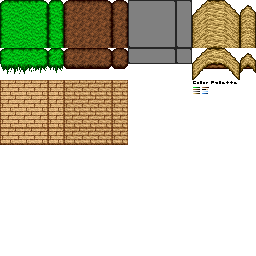
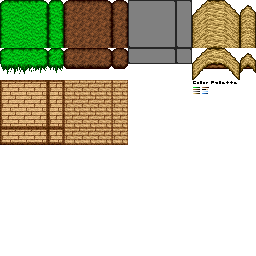
Interior Rendering Tests II
Increased contrast on indoor textures and some thing texture, and added
some new indoor things.

Added Things:
	StairsIndoor - a version of stairs that should be attached to a wall
	StairsIndoorBottom - aesthetic piece to aid transition between
adjacent indoor stairs (non-blocking, basically non-interactable)

Changed region(s): [[0.0, 0.3125, 0.25, 0.5938]]

diff --git a/src/actions/Step.java b/src/actions/Step.java
@@ -101,9 +101,9 @@ public class Step implements Action {
 				int[] pos = agent.getPos();
 				//Ascend ramp
 				if ((world.hasThing(pos[0] - 1, pos[1], pos[2]) && world.getThingAt(pos[0] - 1, pos[1], pos[2]).isRamp()
-						&& world.getThingAt(pos[0] - 1, pos[1], pos[2]).getDir() == right)
+						&& world.getThingAt(pos[0] - 1, pos[1], pos[2]).getDir() == left)
 						|| (world.hasThing(pos[0], pos[1], pos[2] - 1) && world.getThingAt(pos[0], pos[1], pos[2] - 1).isRamp()
-								&& world.getThingAt(pos[0], pos[1], pos[2] - 1).getDir() == right))
+								&& world.getThingAt(pos[0], pos[1], pos[2] - 1).getDir() == left))
 				{
 					ArrayList<String> tempArgs = new ArrayList<String>();
 					tempArgs.addAll(args);
@@ -112,9 +112,9 @@ public class Step implements Action {
 				}
 				//Descend ramp
 				else if ((world.hasThing(pos[0] - 1, pos[1], pos[2] - 1) && world.getThingAt(pos[0] - 1, pos[1], pos[2] - 1).isRamp()
-						&& world.getThingAt(pos[0] - 1, pos[1], pos[2] - 1).getDir() == left)
+						&& world.getThingAt(pos[0] - 1, pos[1], pos[2] - 1).getDir() == right)
 						|| (world.hasThing(pos[0], pos[1], pos[2] - 1) && world.getThingAt(pos[0], pos[1], pos[2] - 1).isRamp()
-								&& world.getThingAt(pos[0], pos[1], pos[2] - 1).getDir() == left))
+								&& world.getThingAt(pos[0], pos[1], pos[2] - 1).getDir() == right))
 				{
 					ArrayList<String> tempArgs = new ArrayList<String>();
 					tempArgs.addAll(args);
@@ -145,9 +145,9 @@ public class Step implements Action {
 				int[] pos = agent.getPos();
 				//Ascend ramp
 				if ((world.hasThing(pos[0] + 1, pos[1], pos[2]) && world.getThingAt(pos[0] + 1, pos[1], pos[2]).isRamp()
-						&& world.getThingAt(pos[0] + 1, pos[1], pos[2]).getDir() == left)
+						&& world.getThingAt(pos[0] + 1, pos[1], pos[2]).getDir() == right)
 						|| (world.hasThing(pos[0], pos[1], pos[2] - 1) && world.getThingAt(pos[0], pos[1], pos[2] - 1).isRamp()
-								&& world.getThingAt(pos[0], pos[1], pos[2] - 1).getDir() == left))
+								&& world.getThingAt(pos[0], pos[1], pos[2] - 1).getDir() == right))
 				{
 					ArrayList<String> tempArgs = new ArrayList<String>();
 					tempArgs.addAll(args);
@@ -156,9 +156,9 @@ public class Step implements Action {
 				}
 				//Descend ramp
 				else if ((world.hasThing(pos[0] + 1, pos[1], pos[2] - 1) && world.getThingAt(pos[0] + 1, pos[1], pos[2] - 1).isRamp()
-						&& world.getThingAt(pos[0] + 1, pos[1], pos[2] - 1).getDir() == right)
+						&& world.getThingAt(pos[0] + 1, pos[1], pos[2] - 1).getDir() == left)
 						|| (world.hasThing(pos[0], pos[1], pos[2] - 1) && world.getThingAt(pos[0], pos[1], pos[2] - 1).isRamp()
-								&& world.getThingAt(pos[0], pos[1], pos[2] - 1).getDir() == right))
+								&& world.getThingAt(pos[0], pos[1], pos[2] - 1).getDir() == left))
 				{
 					ArrayList<String> tempArgs = new ArrayList<String>();
 					tempArgs.addAll(args);

diff --git a/src/things/StairsIndoor.java b/src/things/StairsIndoor.java
@@ -10,42 +10,52 @@ import entities.Agent.direction;
 
 import static entities.Agent.direction.*;
 
-public class Stairs extends Thing {
-
-	public Stairs()
+public class StairsIndoor extends Thing {
+	direction renderDir;
+	
+	public StairsIndoor()
 	{
 		loadTextures();
 		
-		texRow = 0;
+		texRow = 4;
 		texCol = 0;
-		setDir(down);
-		blocking = false;
+		setDir(right);
+		renderDir = right;
+		blocking = true;
 		crossable = true;
 		ramp = true;
 	}
 	
-	public Stairs(direction d)
+	public StairsIndoor(direction d)
 	{
 		loadTextures();
 		
-		texRow = 0;
+		if (d == left)
+			texRow = 5;
+		else
+			texRow = 4;
 		texCol = 0;
 		setDir(d);
+		renderDir = d;
 		crossable = true;
 		ramp = true;
+		blocking = true;
+	}
+	
+	public StairsIndoor(direction d, direction d2)
+	{
+		loadTextures();
 		
-		if (d == down)
-		{
-			blocking = false;
-		}
-		else if (d == right)
-		{
-			blocking = true;
-		}
-		else if (d == left)
-		{
-			blocking = true;
-		}
+		if (d == left)
+			texRow = 5;
+		else
+			texRow = 4;
+		texCol = 0;
+		setDir(d);
+		renderDir = d2;
+		crossable = true;
+		ramp = true;
+		blocking = true;
 	}
 	
 	@Override
@@ -69,19 +79,25 @@ public class Stairs extends Thing {
 		
 		int texX = texCol * 4;
 		int texY = texRow;
-		switch (getDir())
+		switch (renderDir)
 		{
-		case down:
-			texX += 0;
-			break;
 		case right:
+			if (getDir() == left)
+				texX += 0;
+			else
+				texX += 3;
+			break;
+		case down:
 			texX += 1;
 			break;
 		case up:
 			texX += 2;
 			break;
 		case left:
-			texX += 3;				
+			if (getDir() == left)
+				texX += 3;
+			else
+				texX += 0;				
 			break;
 		}
 		

diff --git a/src/things/StairsIndoorBottom.java b/src/things/StairsIndoorBottom.java
@@ -10,42 +10,30 @@ import entities.Agent.direction;
 
 import static entities.Agent.direction.*;
 
-public class Stairs extends Thing {
+public class StairsIndoorBottom extends Thing {
 
-	public Stairs()
+	public StairsIndoorBottom()
 	{
 		loadTextures();
 		
-		texRow = 0;
+		texRow = 6;
 		texCol = 0;
-		setDir(down);
+		setDir(left);
 		blocking = false;
 		crossable = true;
-		ramp = true;
+		ramp = false;
 	}
 	
-	public Stairs(direction d)
+	public StairsIndoorBottom(direction d)
 	{
 		loadTextures();
 		
-		texRow = 0;
+		texRow = 6;
 		texCol = 0;
 		setDir(d);
+		blocking = false;
 		crossable = true;
-		ramp = true;
-		
-		if (d == down)
-		{
-			blocking = false;
-		}
-		else if (d == right)
-		{
-			blocking = true;
-		}
-		else if (d == left)
-		{
-			blocking = true;
-		}
+		ramp = false;
 	}
 	
 	@Override
@@ -69,21 +57,9 @@ public class Stairs extends Thing {
 		
 		int texX = texCol * 4;
 		int texY = texRow;
-		switch (getDir())
-		{
-		case down:
-			texX += 0;
-			break;
-		case right:
+		
+		if (getDir() == left)
 			texX += 1;
-			break;
-		case up:
-			texX += 2;
-			break;
-		case left:
-			texX += 3;				
-			break;
-		}
 		
 		int xMin = pixelSize * ((terrainTextureSize - TEXTURE_SIZE_X) / 2);
 		int xMax = xMin + pixelSize * (TEXTURE_SIZE_X);

diff --git a/src/main/GameMain.java b/src/main/GameMain.java
@@ -16,6 +16,8 @@ import entities.Wanderer;
 import things.HorizontalBar;
 import things.LightSource;
 import things.Stairs;
+import things.StairsIndoor;
+import things.StairsIndoorBottom;
 import things.VerticalBar;
 import world.Terrain;
 import world.World;
@@ -659,17 +661,21 @@ public class GameMain {
 		world.addThing(b3, 33, 35, 1);
 		HorizontalBar b4 = new HorizontalBar(right);
 		world.addThing(b4, 34, 35, 1);
-		VerticalBar b5 = new VerticalBar(left);
+		VerticalBar b5 = new VerticalBar(up);
 		world.addThing(b5, 27, 36, 1);
 		VerticalBar b6 = new VerticalBar(up);
 		world.addThing(b6, 34, 36, 1);
 		
-		Stairs s1 = new Stairs(left);
-		Stairs s2 = new Stairs(left);
-		Stairs s3 = new Stairs(left);
+		StairsIndoor s1 = new StairsIndoor(right, down);
+		StairsIndoor s2 = new StairsIndoor(right, left);
+		StairsIndoor s3 = new StairsIndoor(right, up);
+		StairsIndoorBottom sb1 = new StairsIndoorBottom(right);
+		StairsIndoorBottom sb2 = new StairsIndoorBottom(right);
 		world.addThing(s1, 40, 36, 1);
 		world.addThing(s2, 41, 36, 2);
 		world.addThing(s3, 42, 36, 3);
+		world.addThing(sb1, 41, 36, 1);
+		world.addThing(sb2, 42, 36, 2);
 		
 		LightSource l1 = new LightSource();
 		world.addThing(l1, 33, 33, 2);
